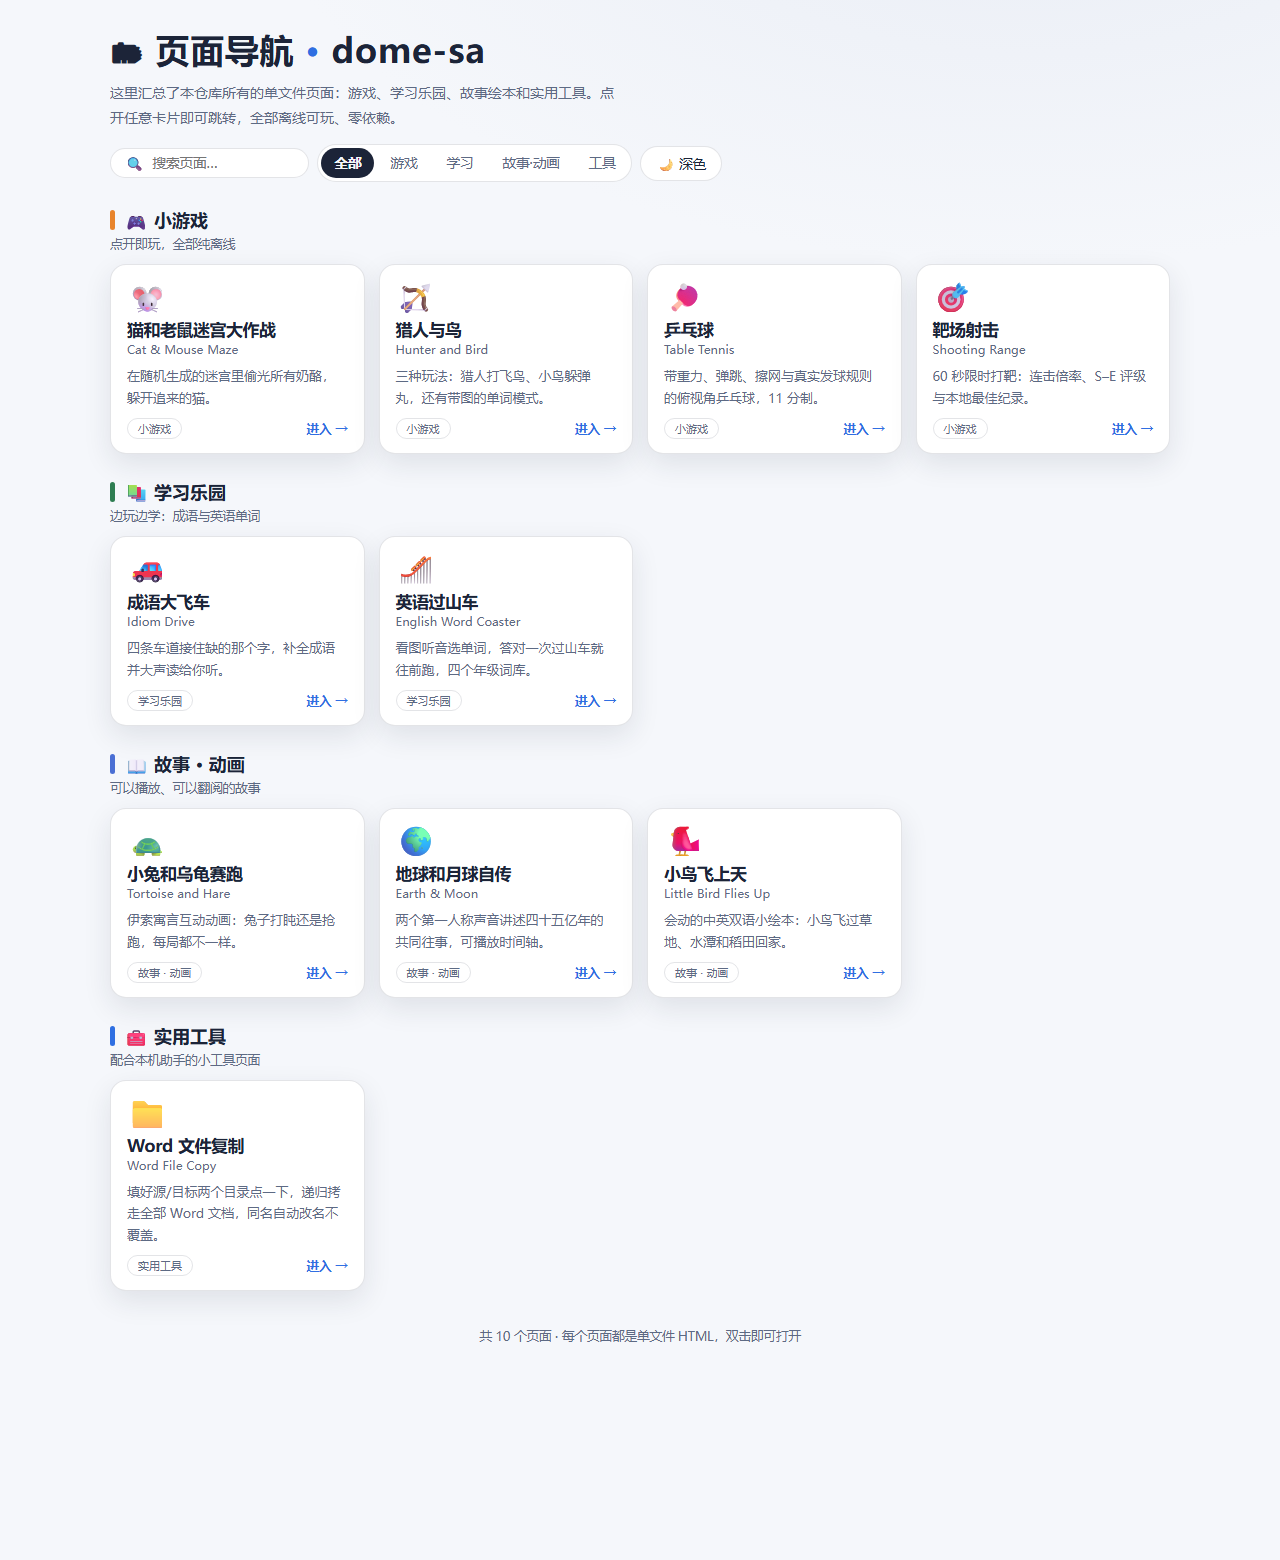
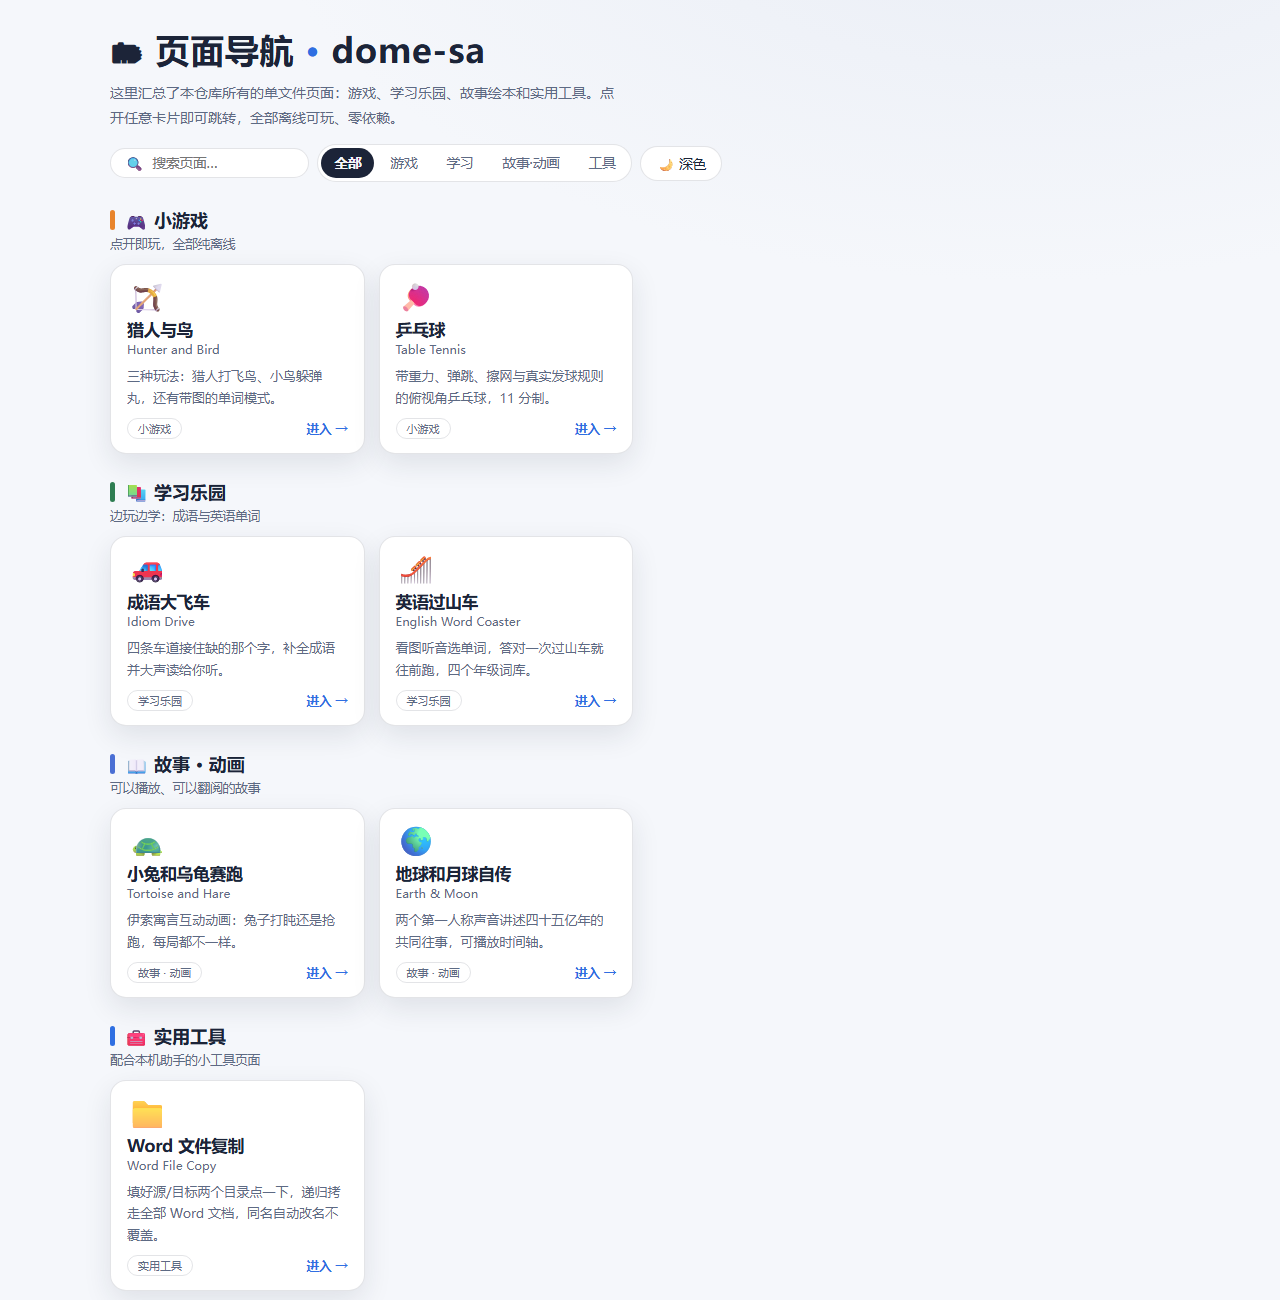
fix(index): drop nav cards whose page files no longer exist
Three cards linked files that were deleted from main (cat-mouse-game.html,
shooting-game.html, bird-story.html), leaving dead links on the hub.
The list now covers the 7 pages that actually exist at the repo root;
?selftest=1 reports 9/9 passing with 7/7 cards.

diff --git a/index.html b/index.html
@@ -100,14 +100,10 @@ footer{margin-top:34px;color:var(--muted);font-size:12.5px;line-height:1.8;text-
 'use strict';
 /* 页面清单：与仓库根目录下的 *.html 一一对应（本页自身除外）。 */
 const PAGES = [
-  { file:'cat-mouse-game.html', emoji:'🐭', name:'猫和老鼠迷宫大作战', en:'Cat & Mouse Maze',
-    desc:'在随机生成的迷宫里偷光所有奶酪，躲开追来的猫。', cat:'play', tags:'迷宫 奶酪 猫 老鼠 休闲' },
   { file:'hunter-bird-game.html', emoji:'🏹', name:'猎人与鸟', en:'Hunter and Bird',
     desc:'三种玩法：猎人打飞鸟、小鸟躲弹丸，还有带图的单词模式。', cat:'play', tags:'射击 鸟 猎人 反应 单词' },
   { file:'pingpong-game.html', emoji:'🏓', name:'乒乓球', en:'Table Tennis',
     desc:'带重力、弹跳、擦网与真实发球规则的俯视角乒乓球，11 分制。', cat:'play', tags:'乒乓球 运动 对战 ai' },
-  { file:'shooting-game.html', emoji:'🎯', name:'靶场射击', en:'Shooting Range',
-    desc:'60 秒限时打靶：连击倍率、S–E 评级与本地最佳纪录。', cat:'play', tags:'射击 靶 连击 计时' },
   { file:'idiom-driving.html', emoji:'🚗', name:'成语大飞车', en:'Idiom Drive',
     desc:'四条车道接住缺的那个字，补全成语并大声读给你听。', cat:'learn', tags:'成语 语文 开车 识字' },
   { file:'english-game.html', emoji:'🎢', name:'英语过山车', en:'English Word Coaster',
@@ -116,8 +112,6 @@ const PAGES = [
     desc:'伊索寓言互动动画：兔子打盹还是抢跑，每局都不一样。', cat:'story', tags:'龟兔赛跑 动画 寓言' },
   { file:'earth-moon-story.html', emoji:'🌍', name:'地球和月球自传', en:'Earth & Moon',
     desc:'两个第一人称声音讲述四十五亿年的共同往事，可播放时间轴。', cat:'story', tags:'地球 月球 宇宙 时间轴 科普' },
-  { file:'bird-story.html', emoji:'🐦', name:'小鸟飞上天', en:'Little Bird Flies Up',
-    desc:'会动的中英双语小绘本：小鸟飞过草地、水潭和稻田回家。', cat:'story', tags:'绘本 双语 小鸟 童话' },
   { file:'word-copy.html', emoji:'📁', name:'Word 文件复制', en:'Word File Copy',
     desc:'填好源/目标两个目录点一下，递归拷走全部 Word 文档，同名自动改名不覆盖。', cat:'tool', tags:'word 复制 文件 目录 工具 docx' }
 ];
